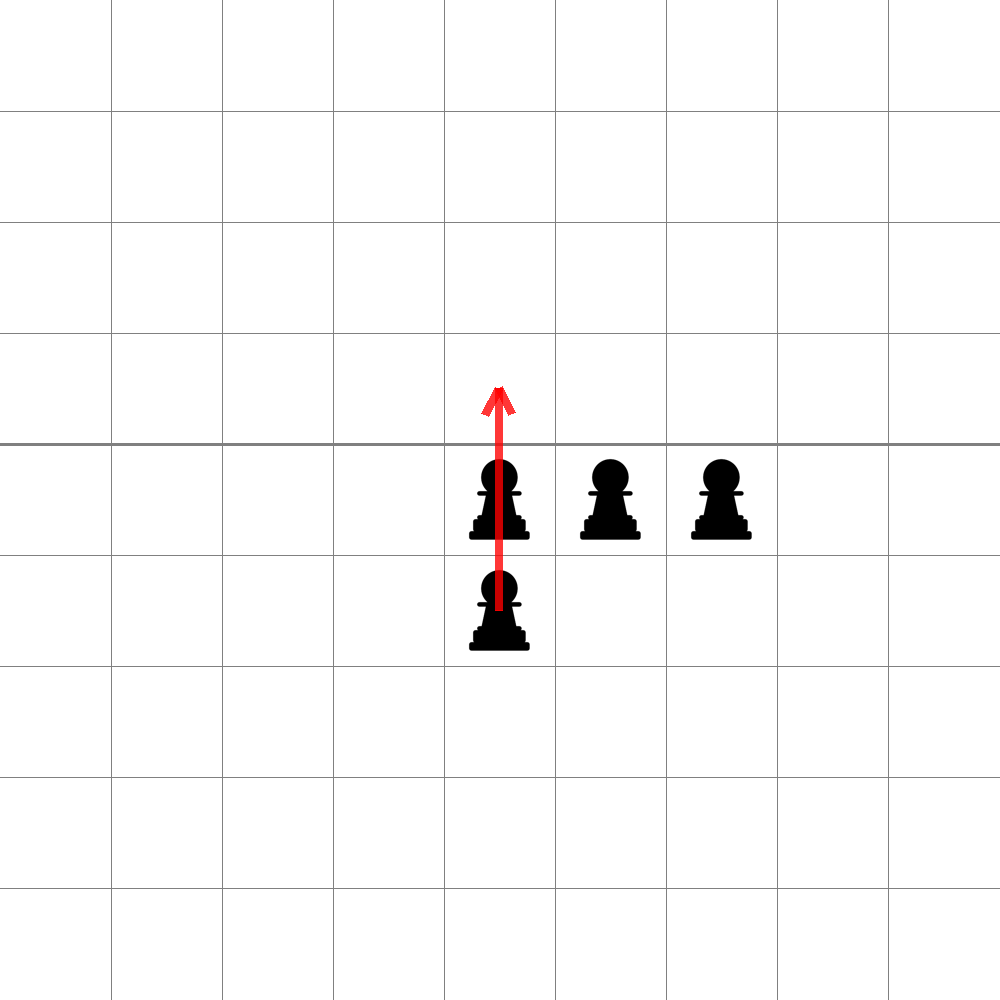
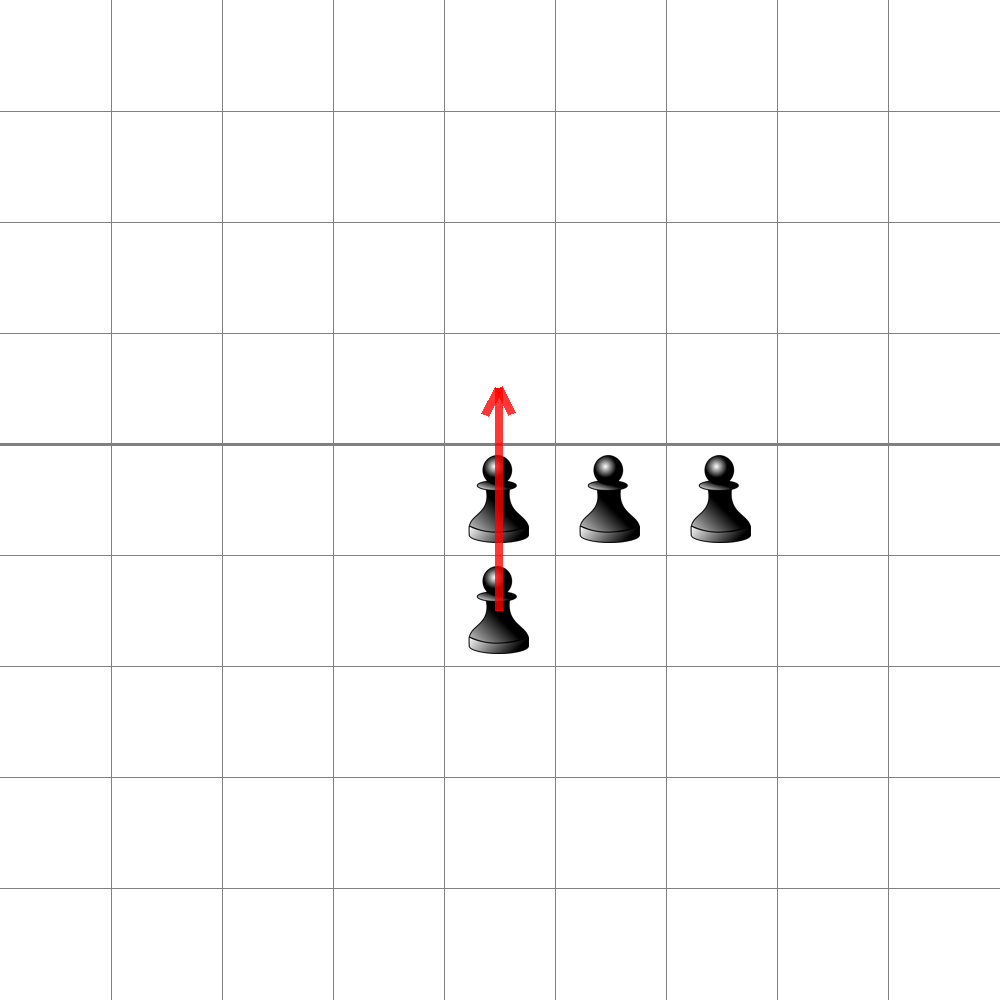
.

Changed region(s): [[0.465, 0.465, 0.527, 0.651], [0.558, 0.434, 0.651, 0.558], [0.682, 0.434, 0.744, 0.558]]

diff --git a/index.html b/index.html
@@ -24,36 +24,42 @@ title: Yaniv Leviathan's Blog
     <div class="blockGroup">
       <ul class="blockGroup-list">
         {% for post in site.posts %}
-          <li class="block">
-            <div class="postArticle-wrapper">
-              <article class="postArticle postArticle--short">
-                {% if post.image.feature %}
-                  <a href="{{ post.url }}">
-                    {% if forloop.index0 < 3 %}
-                      <div class="postArticle-image desaturate" style="background-image:url('{{ post.image.feature | prepend: "/assets/images/hero/" }}')">
-                      {%if post.categories contains "Puzzle" %}<span class="category-icon-large">&#129513;</span>{% endif %}
-                    {% else %}
-                      <div class="postArticle-image desaturate" style="background-image:url('{{ post.image.feature | prepend: "/assets/images/midsize/" }}')">
-                      {%if post.categories contains "Puzzle" %}<span class="category-icon-small">&#129513;</span>{% endif %}
+        <li class="block">
+          <div class="postArticle-wrapper">
+            <article class="postArticle postArticle--short">
+              {% if post.image.feature %}
+              <a href="{{ post.url }}">
+                {% if forloop.index0 < 3 %}
+                <div class="postArticle-image desaturate"
+                  style="background-image:url('{{ post.image.feature | prepend: "/assets/images/hero/" }}')">
+                  {%if post.categories contains "Puzzle" %}<span class="category-icon-large">&#129513;</span>{% endif %}
+                  {%if post.categories contains "WIP" %}<span class="category-icon-large">&#128679;</span>{% endif %}
+                  {% else %}
+                  <div class="postArticle-image desaturate"
+                    style="background-image:url('{{ post.image.feature | prepend: "/assets/images/midsize/" }}')">
+                    {%if post.categories contains "Puzzle" %}<span
+                      class="category-icon-small">&#129513;</span>{% endif %}
+                    {%if post.categories contains "WIP" %}<span class="category-icon-small">&#128679;</span>{% endif %}
                     {% endif %}
                     {% comment %}
                     {%if post.categories contains "Math" %}<span class="category-icon">&#8512;</span>{% endif %}
-                    {%if post.categories contains "Programming" %}<span class="category-icon">&#128187;</span>{% endif %}
+                    {%if post.categories contains "Programming" %}<span
+                      class="category-icon">&#128187;</span>{% endif %}
                     {%if post.categories contains "Graphics" %}<span class="category-icon">&#128396;</span>{% endif %}
                     {% endcomment %}
-                    </div>
-                  </a>
-                {% else %}
-                <a href="{{ post.url }}">
-                  <div class="postArticle-image" style="background-image:url('/assets/images/logo-black.svg')">
                   </div>
-                </a>
-                {% endif %}
-                <a class="postArticle-title" href="{{ post.url }}">{{ post.title }}</a>
-              </article>
-              <div class="block-postMeta">{{ post.date | date_to_string }}</div>
-            </div>
-          </li>
+              </a>
+              {% else %}
+              <a href="{{ post.url }}">
+                <div class="postArticle-image" style="background-image:url('/assets/images/logo-black.svg')">
+                </div>
+              </a>
+              {% endif %}
+              <a class="postArticle-title" href="{{ post.url }}">{{ post.title }}</a>
+            </article>
+            <div class="block-postMeta">{{ post.date | date_to_string }}</div>
+          </div>
+        </li>
         {% endfor %}
       </ul>
     </div>

diff --git a/about/index.html b/about/index.html
@@ -49,9 +49,10 @@ title: About Yaniv Leviathan
         <p>In this iteration of the site, I decided to <strong>include the solutions to the puzzles</strong> in the
           posts. I'll be adding them gradually, so beware of spoilers!</p>
         <h4>Thanks</h4>
-        <p>I used a lot of images from the awesome royalty-free images sites <a href="https://www.pexels.com">Pexels</a>
-          and
-          <a href="https://unsplash.com/">Unsplash</a>, and I used the amazing <a
+        <p>I used a lot of images from the awesome royalty-free images sites <a
+            href="https://www.pexels.com">Pexels</a>,
+          <a href="https://unsplash.com/">Unsplash</a>, and <a
+            href="https://publicdomainvectors.org/">publicdomainvectors.org</a>, and I used the amazing <a
             href="https://github.com/vincentchan/mickey">Mickey theme</a> by <a
             href="https://github.com/vincentchan">Vincent Chan</a>.
           <br />

diff --git a/_layouts/post.html b/_layouts/post.html
@@ -36,6 +36,7 @@ layout: default
             </li>
             <li class="postMeta-tags">
               {%if page.categories contains "Puzzle" %}<span>&#129513;</span>{% endif %}
+              {%if page.categories contains "WIP" %}<span>&#128679;</span>{% endif %}
               {{ page.categories }}
             </li>
           </ul>

diff --git a/code/illustrations.py b/code/illustrations.py
@@ -283,7 +283,8 @@ def pawnBoard(filename,
               arrows,
               label_cells=False,
               image_size=(1000, 1000),
-              draw_separator_line=True):
+              draw_separator_line=True,
+              label_with_grid=False):
   image = Image.new(mode='RGB', size=image_size, color=(
       255,
       255,
@@ -295,14 +296,15 @@ def pawnBoard(filename,
   grid = Grid(image, grid_width, grid_height)
   grid.draw()
 
-  pawn = Image.open('cliparts/blobby.png')
+  pawn = Image.open('cliparts/pawn.png')
   pawn.thumbnail((grid.cell_size * 0.8).ituple2())
 
   if draw_separator_line:
     grid.horizontal_line(horizontal_line, width=3)
   for cell in pawn_cells:
     image.paste(pawn,
-                (grid.cell(*cell).center - Vec(*pawn.size) / 2).ituple2())
+                (grid.cell(*cell).center - Vec(*pawn.size) / 2).ituple2(),
+                pawn)
 
   for arrow in arrows:
     Arrow(grid.cell(*arrow[0]).center, grid.cell(*arrow[1]).center).draw(image)
@@ -321,7 +323,16 @@ def pawnBoard(filename,
           Label.draw(image, '-', cell.center)
           Label.draw(image, str(denominator), cell.center + Vec(0, 20))
 
-  # image.save('../assets/images/posts/pawns/' + filename)
+  if label_with_grid:
+    center_cell_x = grid_width // 2
+    center_cell_y = grid_height // 2
+    for x in range(grid_width):
+      for y in range(grid_height):
+        coord = (x - center_cell_x), (y - center_cell_y)
+        cell = grid.cell(x, y)
+        Label.draw(image, str(coord), cell.center)
+
+  image.save('../assets/images/posts/pawns/' + filename)
   image.show()
 
 
@@ -349,6 +360,10 @@ def pawns():
             [((6, 4), (4, 4))])
   pawnBoard('example2_3.png', 9, 9, [(4, 3), (4, 4)], [((4, 4), (4, 2))])
   pawnBoard('example2_4.png', 9, 9, [(4, 2)], [])
+  pawnBoard('solution_potential_grid_labels.png',
+            9,
+            9, [], [],
+            label_with_grid=True)
   pawnBoard('solution_potential_labels.png', 9, 9, [], [], True)
 
 

diff --git a/code/23and2000.py b/code/23and2000.py
@@ -1,0 +1,31 @@
+from typing import List
+import operator
+
+all_seqs = []
+
+
+def solve_seq(s: List):
+  for i in range(4 * 3 * 2 * 1 * 2 * 2 * 2 * 2):
+    t = s.copy()
+    while len(t) > 1:
+      loc = i % (len(t) - 1)
+      i //= (len(t) - 1)
+      bit = i % 2
+      i //= 2
+      op = [operator.add, operator.mul][bit]
+      t = t[:loc] + [op(t[loc], t[loc + 1]) % 5] + t[loc + 2:]
+    if t[0] == 0:
+      return i
+
+
+for i in range(5**5):
+  seq = []
+  for j in range(5):
+    seq.append(i % 5)
+    i //= 5
+  all_seqs.append(seq)
+
+for seq in all_seqs:
+  s = solve_seq(seq)
+  if s is None:
+    print(seq)

diff --git a/_posts/2007-11-05-pawns.md b/_posts/2007-11-05-pawns.md
@@ -1,0 +1,55 @@
+---
+layout: post
+title:  "Pawns"
+date:   2007-11-05 01:00:00
+excerpt: "A puzzle with potential"
+categories: Puzzle
+tags:  Puzzle Math
+image:
+  feature: pawn.jpg
+  topPosition: -300px
+bgContrast: dark
+bgGradientOpacity: darker
+syntaxHighlighter: no
+---
+Consider an infinite checkerboard divided in two with an infinite line lying along the x-axis, as depicted below:
+
+{% include image.html url="/assets/images/posts/pawns/far.png" %}
+
+Let's zoom in a little:
+
+{% include image.html url="/assets/images/posts/pawns/empty.png" %}
+
+We will play a game on this board. In this game, you start with some pawns under the horizontal line. For example, here is a potential starting configuration:
+
+{% include image.html url="/assets/images/posts/pawns/starting_example.png" %}
+
+In each turn you can make a pawn jump over one of its 4-connected neighbors, thereby killing it (removing it from the board). The pawn's movement is demonstrated here:
+
+{% include image.html url="/assets/images/posts/pawns/rules_before.png" %}
+
+Will become this:
+
+{% include image.html url="/assets/images/posts/pawns/rules_after.png" %}
+
+When the game starts, all the pawns are below the line. You can move the pawns as per the rules above, and you get points depending on *how far above the line* you can go. For example, here is a starting configuration with 2 pawns and the first move:
+
+{% include image.html url="/assets/images/posts/pawns/example1_1.png" %}
+
+Resulting in a game ending with 1 point:
+
+{% include image.html url="/assets/images/posts/pawns/example1_2.png" %}
+
+It is obvious that in order to make a pawn cross the line (or move at all), at least two pawns are needed, so all games with a single pawn will end in a score of zero.
+
+How many pawns are needed in order to score 2 points? As is demonstrated below, 4 pawns are sufficient, and indeed this is the minimum (check that you see why 2 and 3 pawns cannot do it).
+
+{% include image.html url="/assets/images/posts/pawns/example2_1.png" %}
+
+{% include image.html url="/assets/images/posts/pawns/example2_2.png" %}
+
+{% include image.html url="/assets/images/posts/pawns/example2_3.png" %}
+
+{% include image.html url="/assets/images/posts/pawns/example2_4.png" %}
+
+Now for the riddle. How many pawns are needed in order to score 5 points?

diff --git a/_posts/2007-08-13-23-and-2000.md b/_posts/2007-08-13-23-and-2000.md
@@ -3,7 +3,7 @@ layout: post
 title:  "23 and 2000"
 date:   2007-08-13 01:00:00
 excerpt: "An easy puzzle"
-categories: Puzzle
+categories: WIP
 tags:  Puzzle Math Easy
 image:
   feature: calculator.jpg
@@ -24,3 +24,25 @@ Prove that there exists an arrangement of the symbols '+', '×', '(' and ')' in-
 2. Consider a more general case. Replace in the riddle above the number 23 by K and the number 2000 by N. Describe all the pairs, K, N, for which a solution to the riddle exists.
 
 *Thanks to Misha Seltzer, for sending me this cool riddle!*
+
+## Spoiler Alert - Solution Ahead
+
+$$2000 = 2^4 \times 5^3$$
+
+Note that for any 2 numbers, a and b, if a or b is even, then $$(a \times b)$$ is even, and if both are odd, then $$(a + b)$$ is even. Basically, we can take any 2 consecutive numbers from the line and create an even number. That means that we can take the first 8 numbers, and create $$2^4$$.
+
+We are left with 23 - 8 = 15 numbers. If we can take any sequence of 5 numbers and create a number the is divisible by 5, then we are done. Let's consider the numbers mod 5. If one of the numbers is 0 mod 5, just multiply all 5 numbers together. Otherwise, the 5 numbers are all equal to $$\plusminus 1, \plusminus 2$$ mod 5. If you have a number repeating 5 times, just add them all up. Otherwise, if you have a 1 and a -1 next to each other or a 2 and a -2 next to each other, just add those together and you get 0 mod 5 (and then multiply all of the numbers). Otherwise, 1 and -1 are not adjacent, and 2 and -2 are not adjacent.
+
+1 1 1
+1 1 2
+//1 1 -2
+
+1 2 1
+1 2 2
+1 2 -1
+
+1 -2 1
+1 -2 -1
+1 -2 -2
+
+That means that there must be a subsequence of the form: $$\plusminus 2 \plusminus 1 \plusminus2$$.

diff --git a/_posts/2019-11-23-table-cover.md b/_posts/2019-11-23-table-cover.md
@@ -12,6 +12,8 @@ syntaxHighlighter: yes
 ---
 There are 100 identical coins on a rectangular table, such that you cannot add any coin without it touching one of the existing coins. Prove that you can completely cover the table with 400 coins.
 
+Thanks Asaf Aharoni for this puzzle!
+
 ## Spoiler Alert - Solution Ahead!
 
 WLOG assume that the radius of the coins is 1. The fact that you cannot add another coin without it touching one of the existing coins means that any point on the table is of distance less than 1 from one of the edges of the coins. That means that if you replace each of the coins by another coin of radius 2, you could cover the table.

diff --git a/_posts/2018-11-13-cloth-simulation-in-typescript.md b/_posts/2018-11-13-cloth-simulation-in-typescript.md
@@ -3,8 +3,8 @@ layout: post
 title:  "Cloth Simulation in TypeScript"
 date:   2018-11-13 01:00:00
 excerpt: "A physical simulation of a piece of cloth in TypeScript"
-categories: Graphics
-tags:  Coding Graphics Physics Simulation Javascript Typescript
+categories: WIP
+tags:  Graphics Coding Physics Simulation Javascript Typescript
 image:
   feature: clothsim3d.png
   topPosition: -300px

diff --git a/_posts/2019-10-06-simple-shadertoy-raytracer.md b/_posts/2019-10-06-simple-shadertoy-raytracer.md
@@ -3,8 +3,8 @@ layout: post
 title:  "Simple Shader Ray Tracer with Shadertoy"
 date:   2019-10-06 01:00:00
 excerpt: "A simple ray tracer running on the GPU"
-categories: Graphics
-tags:  Coding Graphics Shadertoy Shader GPU Raytracing Raytracer
+categories: WIP
+tags:  Graphics Coding Shadertoy Shader GPU Raytracing Raytracer
 image:
   feature: spheres.png
   topPosition: -100px

diff --git a/_drafts/2018-07-08-javascript-fireworks.md b/_drafts/2018-07-08-javascript-fireworks.md
@@ -2,7 +2,7 @@
 layout: post
 title:  "Javascript Fireworks"
 excerpt: "Simple fireworks in Javascript"
-categories: Graphics
+categories: WIP
 tags:  Graphics Javascript Coding
 image:
   feature: js-fireworks.png

diff --git a/_posts/2017-08-19-javascript-attraction.md b/_posts/2017-08-19-javascript-attraction.md
@@ -2,7 +2,7 @@
 layout: post
 title:  "Javascript Attraction"
 excerpt: "Gesture of Love in Javascript"
-categories: Graphics
+categories: WIP
 tags:  Graphics Javascript Coding
 image:
   feature: attraction.png
